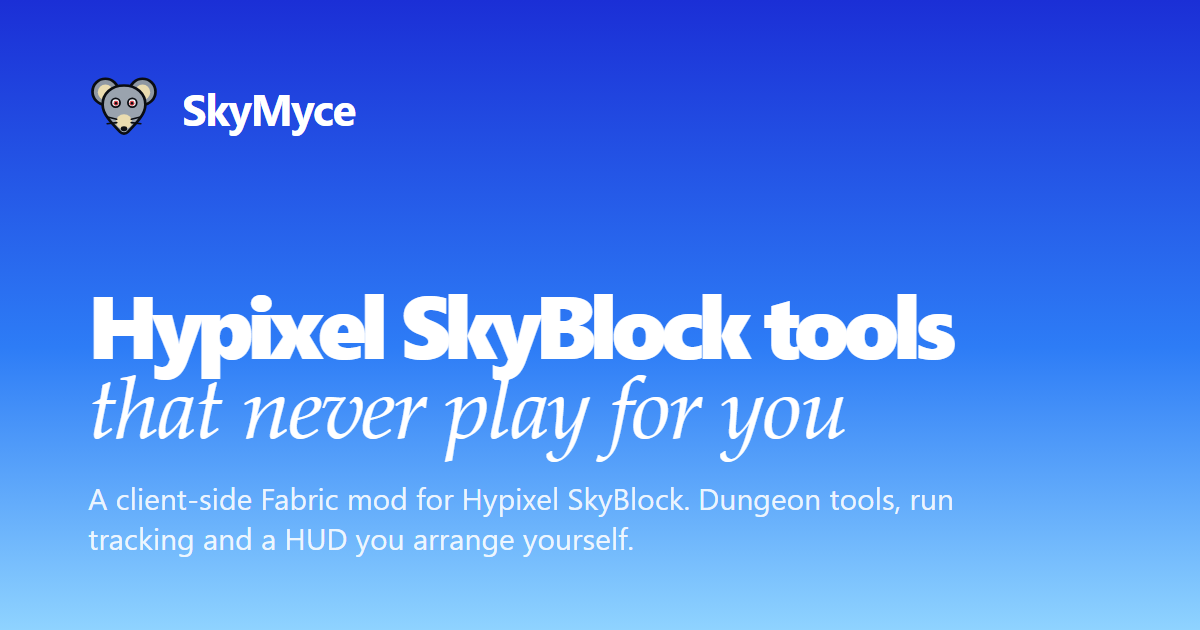
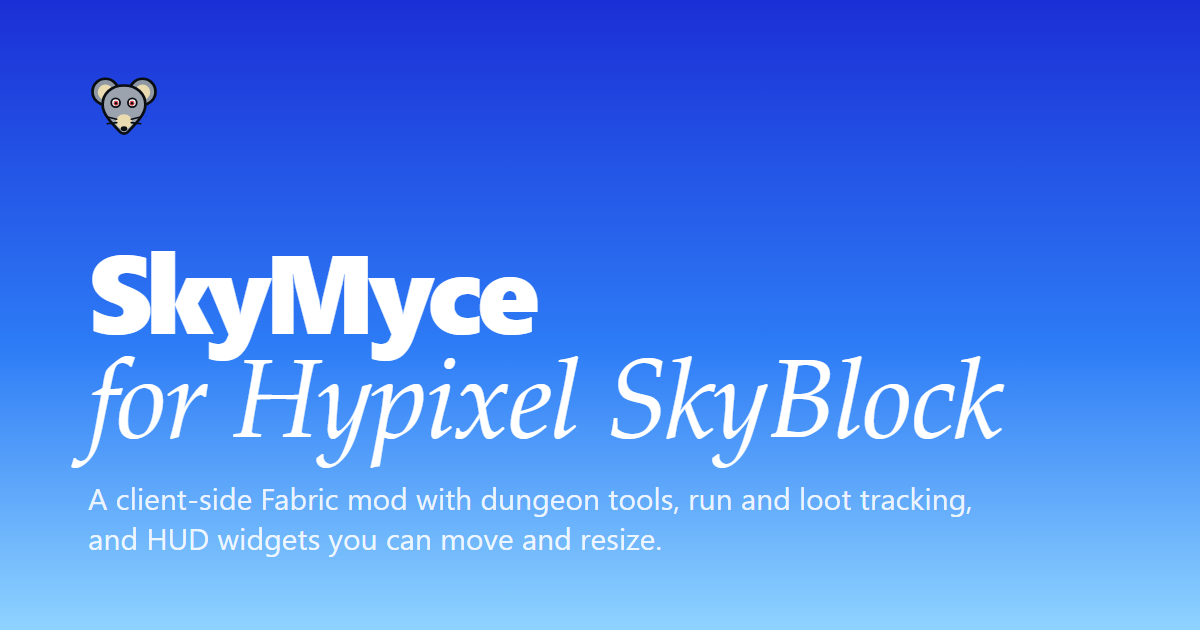
Plain hero title and a friends-list Party Finder section
The hero is now just "SkyMyce for Hypixel SkyBlock" with a factual
lead, and og.png matches. The Dungeons Party Finder section describes
the Dungeon Friends list instead of marking mismatched listings.

diff --git a/src/pages/index.html b/src/pages/index.html
@@ -3,8 +3,8 @@
   <img class="hero__bg" src="~/assets/media/home/dungeon-hub.webp" alt="" width="1865" height="1048" aria-hidden="true">
   <div class="wrap hero__copy">
     <p class="hero__kicker">A client-side Fabric mod</p>
-    <h1 class="hero__title" id="hero-title"><span>Hypixel SkyBlock tools</span> <em>that never play for you</em></h1>
-    <p class="hero__lead">Party Finder matching, Goldor guidance, run and loot tracking, and a HUD you arrange yourself.</p>
+    <h1 class="hero__title" id="hero-title"><span>SkyMyce</span> <em>for Hypixel SkyBlock</em></h1>
+    <p class="hero__lead">Dungeon tools, run and loot tracking, and HUD widgets you can move and resize.</p>
     <div class="btn-row"><a class="btn btn--primary" href="~/download/">Download for Minecraft {{requirements.minecraft}}</a><a class="btn btn--glass" href="~/docs/getting-started/">Read the docs</a></div>
     <ul class="hero__facts" aria-label="Key facts"><li>Free</li><li>Fabric, Java {{requirements.java}}</li><li>No account needed</li><li>Every feature is a switch</li></ul>
   </div>
@@ -27,7 +27,7 @@
       <a class="panel panel--ember panel--wide reveal" href="~/dungeons/">
         <p class="label">Dungeons</p>
         <h3>Party Finder, routing and Goldor guidance</h3>
-        <p>Party matching, missing-player alerts, chest reroll protection, routing, the Crush Camera and per-class Goldor steps.</p>
+        <p>A party finder built from your friends list, missing-player alerts, chest reroll protection, routing, the Crush Camera and per-class Goldor steps.</p>
         <span class="panel__cta">See the dungeon tools</span>
         <div class="panel__media">
           <img src="~/assets/media/dungeons/party-finder.webp" alt="Dungeon Friends in the Party Finder with status, class levels and PBs" width="1862" height="1045" loading="lazy">

diff --git a/src/pages/dungeons/index.html b/src/pages/dungeons/index.html
@@ -11,10 +11,10 @@
 <div class="wrap">
   <article class="feature-row" id="party-finder">
     <div class="feature-row__copy reveal">
-      <p class="label">Party Finder Matcher</p>
-      <h2>Marks parties that don't fit your class, floor or PB</h2>
-      <p>Listings that don't fit your class needs, floor or PB requirements are marked, while every listing stays visible and clickable. Nothing is filtered away behind your back.</p>
-      <ul><li>Dungeon friends: who is online, which classes and floors they can cover</li><li>Your availability: floor, classes and a join PB limit</li><li>A message template for quick LFG replies</li></ul>
+      <p class="label">Dungeon Friends</p>
+      <h2>A party finder built from your friends list</h2>
+      <p>Open it with <code>/sm pf</code> to see which friends are online, whether they are idle or in a run, their class, their Catacombs and class levels, and their S+ PB on the floor you pick. Invite, message or join them straight from the list.</p>
+      <ul><li>Sort by Catacombs or any class level, and search by name</li><li>Set your own availability: floor, classes and a join PB limit</li><li>A message template for quick LFG replies</li></ul>
     </div>
     <div class="feature-row__media reveal"><div class="parallax"><media-slot id="dungeons/party-finder"></media-slot></div></div>
   </article>
